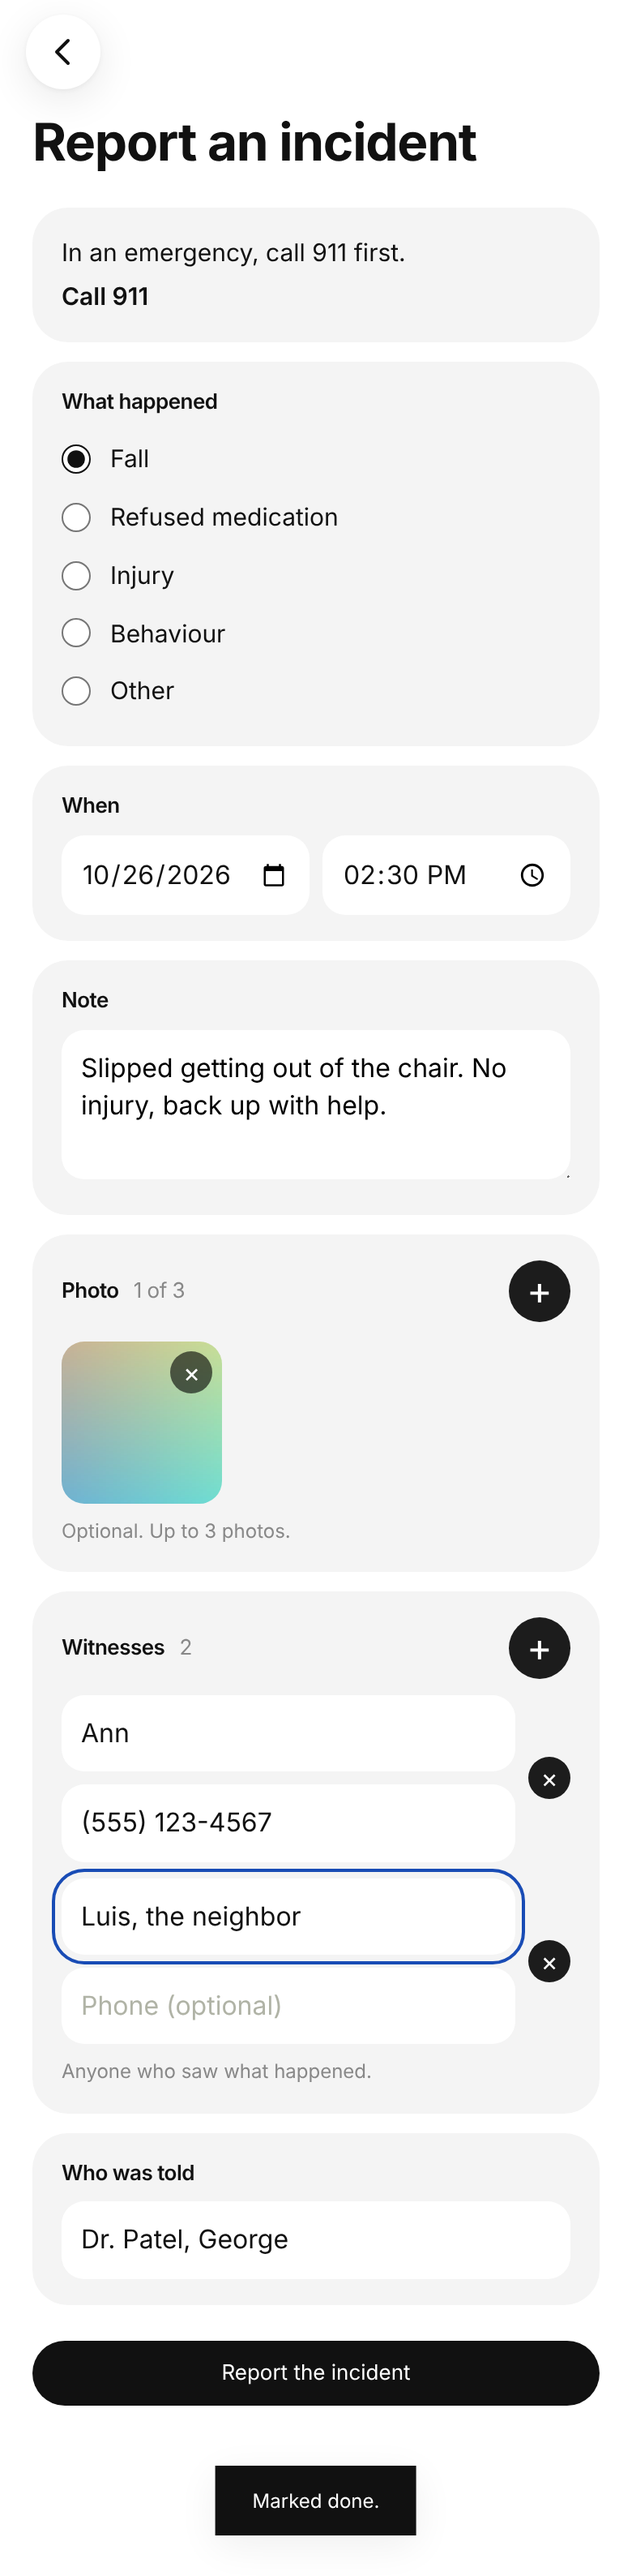
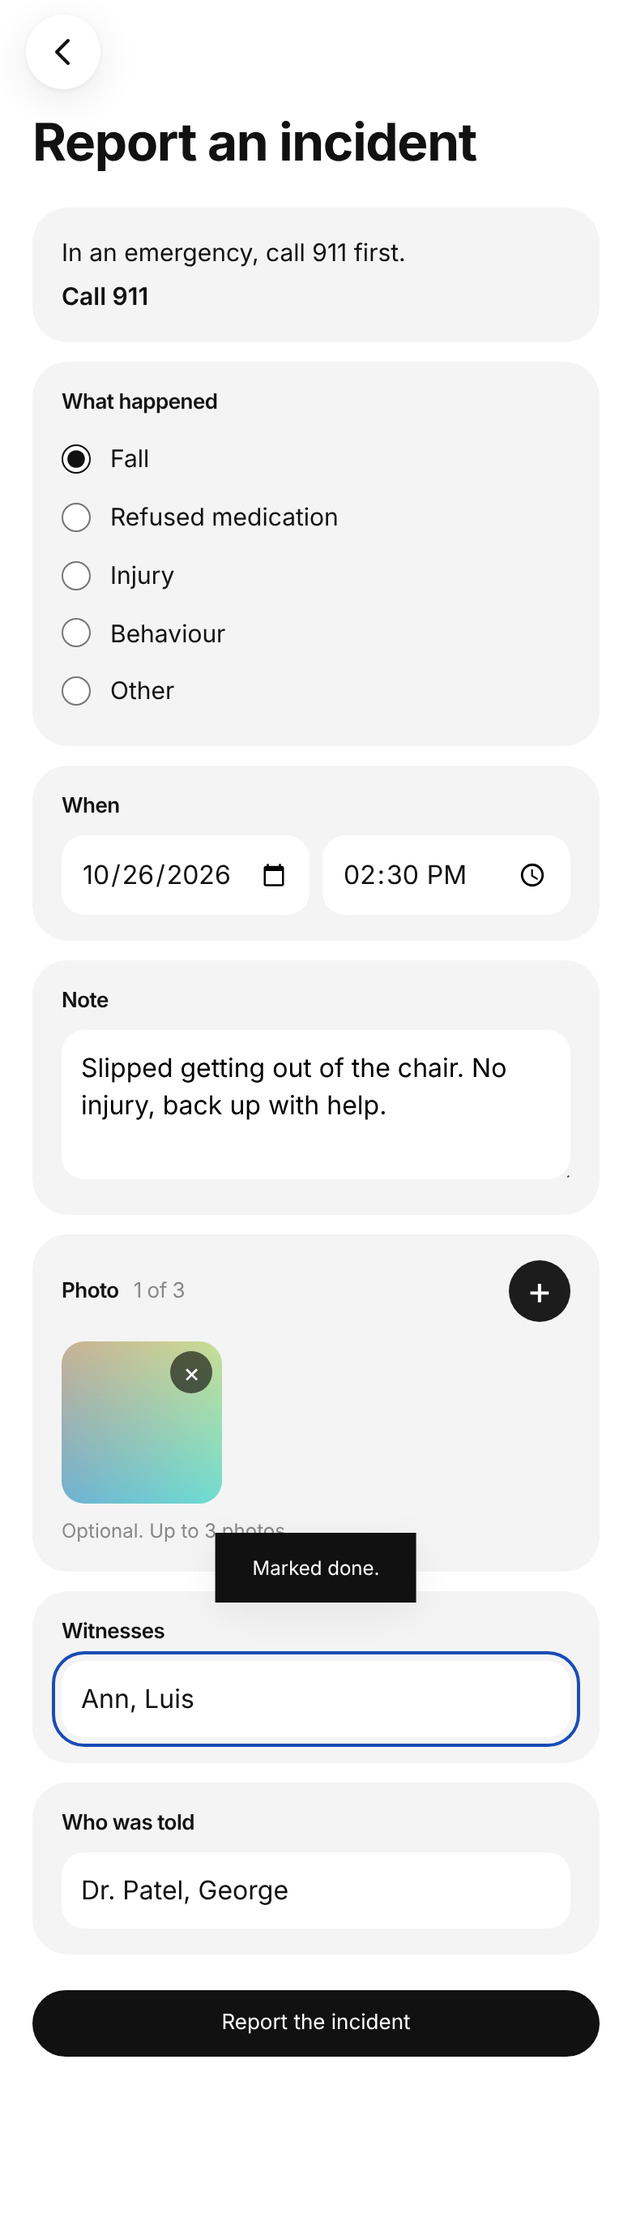
Step 5: witnesses as one field, names separated by commas
George asked for a single Witnesses field with no phone numbers.

Claude-Session: https://claude.ai/code/session_01E2FP2TgKsd54SUu6FZRJ73

diff --git a/plus.js b/plus.js
@@ -3,7 +3,7 @@
    allowed to add tasks or report incidents see it; the server checks it too (server/permissions.js).
    A new task: what to do, an optional note and photo, the date and exact time, once or repeating (every day, chosen days or
    every week), from today up to one year ahead. It shows in My Tasks on its days at its time and is done on the Take page with
-   the same Done or Skip, note and photos. An incident: what happened, when, a note, photos, witnesses and who was told, with Call 911 on
+   the same Done or Skip, note and photos. An incident: what happened, when, a note, photos, the witnesses and who was told, with Call 911 on
    the form. Both show in the daily care report, numbered and time-stamped, with who added them. Uses the Take card's blocks. */
 const PLUS_PHOTOS=3,YEAR_AHEAD=365;
 const TASK_DAYS=['Sun','Mon','Tue','Wed','Thu','Fri','Sat'];
@@ -50,7 +50,7 @@ reportEntries=function(list=items,day=today(),vitalsLog){const out=reportEntries
 for(const t of list.filter(i=>i.task)){const by=t.by?['Added by '+t.by]:[];
 if(onDay(t.addedAt,day))out.push({title:'New task: '+t.name,at:t.addedAt,note:t.note||'',details:[repeatText(t),...by],name:t.name,photos:t.photos||[]});
 for(const m of (t.marks||[]).filter(m=>m.key==='task'&&m.day===day&&m.at))out.push({title:`${t.name} (${t.time?shortClock(t.time)+' task':'task'})${m.kind==='skipped'?' skipped':''}`,at:m.at,note:m.note||'',details:by,name:t.name,photos:m.photos||[]})}
-for(const i of list.filter(i=>i.incident&&onDay(i.at,day)))out.push({title:'Incident: '+i.name,at:i.at,note:i.note||'',details:[(i.witnesses||[]).length?'Witnesses: '+i.witnesses.map(w=>w.name+(w.phone?' '+w.phone:'')).join(', '):'',i.told?'Told: '+i.told:'',i.by?'Reported by '+i.by:''].filter(Boolean),name:'Incident: '+i.name,photos:i.photos||[]});
+for(const i of list.filter(i=>i.incident&&onDay(i.at,day)))out.push({title:'Incident: '+i.name,at:i.at,note:i.note||'',details:[i.witnesses?'Witnesses: '+i.witnesses:'',i.told?'Told: '+i.told:'',i.by?'Reported by '+i.by:''].filter(Boolean),name:'Incident: '+i.name,photos:i.photos||[]});
 return out.sort((x,y)=>new Date(x.at)-new Date(y.at))};
 
 /* The + itself: the Take card's round +. Someone who may do both picks one first; otherwise it opens the one they may do. */
@@ -63,7 +63,7 @@ document.addEventListener('click',e=>{if(!e.target.closest('#tasks-plus'))return
 
 let plusDraft=null;
 const blankTaskDraft=()=>({what:'',note:'',date:today(),time:'',repeat:'once',days:[],until:C.shift(today(),YEAR_AHEAD),photos:[],busy:false});
-const blankIncidentDraft=()=>({kind:'',date:today(),time:hmNow(),note:'',told:'',witnesses:[],photos:[],busy:false});
+const blankIncidentDraft=()=>({kind:'',date:today(),time:hmNow(),note:'',witnesses:'',told:'',photos:[],busy:false});
 const plusPhotos=(d,id)=>`<section class="take-block"><div class="take-line"><h2>Photo <span>${d.photos.length} of ${PLUS_PHOTOS}</span></h2>${d.photos.length>=PLUS_PHOTOS?'':`<label class="take-add" for="${id}" aria-label="Add a photo">+</label>`}</div><input type="file" id="${id}" accept="image/*" multiple hidden>${proofRow(d.photos,true)}<p class="take-muted">Optional. Up to ${PLUS_PHOTOS} photos.</p></section>`;
 const plusField=(label,html)=>`<section class="take-block"><h2>${label}</h2>${html}</section>`;
 const plusRadios=(name,list,value)=>`<div class="plus-choice">${list.map(([v,l])=>`<label><input type="radio" name="${name}" value="${v}"${v===value?' checked':''}><span>${l}</span></label>`).join('')}</div>`;
@@ -84,7 +84,7 @@ ${plusField('What happened',plusRadios('kind',INCIDENTS,d.kind))}
 ${plusField('When',`<div class="plus-when"><input name="date" type="date" max="${today()}" value="${esc(d.date)}" aria-label="Date"><input name="time" type="time" value="${esc(d.time)}" aria-label="Time"></div>`)}
 ${plusField('Note',`<textarea name="note" maxlength="1000" placeholder="What happened, and what was done">${esc(d.note)}</textarea>`)}
 ${plusPhotos(d,'plus-photo')}
-${plusWitnesses(d)}
+${plusField('Witnesses',`<input name="witnesses" maxlength="200" autocomplete="off" value="${esc(d.witnesses)}" placeholder="Ann, Luis">`)}
 ${plusField('Who was told',`<input name="told" maxlength="200" autocomplete="off" value="${esc(d.told)}" placeholder="Dr. Patel, Ann">`)}
 <button class="primary plus-save"${d.busy?' disabled':''}>Report the incident</button></form></section>`}
 Object.assign(menuPages,{plus:plusPage,'task-new':taskNewPage,'incident-new':incidentNewPage});
@@ -92,11 +92,7 @@ menuViews.push('plus','task-new','incident-new');
 const goBeforePlus=go;go=function(v){if(v==='task-new'&&(!plusDraft||!('what'in plusDraft)))plusDraft=blankTaskDraft();if(v==='incident-new'&&(!plusDraft||!('kind'in plusDraft)))plusDraft=blankIncidentDraft();if(v==='overview'||v==='plus')plusDraft=null;return goBeforePlus(v)};
 
 /* Typing keeps the draft; a new repeat choice shows its days or its last day. */
-/* Witnesses: a name and an optional phone each; the + on the line adds one, × takes it off. */
-const plusWitnesses=d=>`<section class="take-block"><div class="take-line"><h2>Witnesses <span>${d.witnesses.length||'None yet'}</span></h2><button type="button" class="take-add tasks-plus" data-witness-add aria-label="Add a witness">+</button></div>${d.witnesses.map((w,n)=>`<div class="plus-witness"><input name="witness-name" maxlength="80" autocomplete="off" value="${esc(w.name)}" placeholder="Name" aria-label="Witness ${n+1} name"><input name="witness-phone" type="tel" inputmode="tel" maxlength="30" autocomplete="off" value="${esc(w.phone)}" placeholder="Phone (optional)" aria-label="Witness ${n+1} phone"><button type="button" class="take-shot-x" data-witness-remove="${n}" aria-label="Remove witness ${n+1}">×</button></div>`).join('')}<p class="take-muted">Anyone who saw what happened.</p></section>`;
-document.addEventListener('click',e=>{const b=e.target.closest('[data-witness-add],[data-witness-remove]');if(!b||!plusDraft||!plusDraft.witnesses)return;readPlusForm(b.closest('form'));
-if(b.dataset.witnessRemove!==undefined)plusDraft.witnesses.splice(Number(b.dataset.witnessRemove),1);else{plusDraft.witnesses.push({name:'',phone:''});render();[...document.querySelectorAll('[name="witness-name"]')].pop()?.focus();return}render()});
-function readPlusForm(f){const d=plusDraft;if(d.witnesses){const names=[...f.querySelectorAll('[name="witness-name"]')],phones=[...f.querySelectorAll('[name="witness-phone"]')];d.witnesses=names.map((n,i)=>({name:n.value,phone:phones[i]?.value||''}))}for(const k of ['what','note','date','time','until','told','kind','repeat'])if(f.elements[k]){const el=f.elements[k];d[k]=el instanceof RadioNodeList?el.value:el.value}
+function readPlusForm(f){const d=plusDraft;for(const k of ['what','note','date','time','until','witnesses','told','kind','repeat'])if(f.elements[k]){const el=f.elements[k];d[k]=el instanceof RadioNodeList?el.value:el.value}
 if(f.querySelector('[name="day"]'))d.days=[...f.querySelectorAll('[name="day"]:checked')].map(c=>Number(c.value))}
 document.addEventListener('input',e=>{const f=e.target.closest('.plus-form');if(f&&plusDraft)readPlusForm(f)});
 document.addEventListener('change',async e=>{const f=e.target.closest('.plus-form');if(!f||!plusDraft)return;
@@ -116,8 +112,8 @@ const problem=task?taskProblem(d):incidentProblem(d);if(problem){toast(problem);
 d.busy=true;render();const photos=(await uploadPlus(d.photos,task?'task':'incident')).filter(Boolean),by=markedBy(),added=new Date().toISOString();
 if(task){const t={id:crypto.randomUUID(),task:true,name:d.what.trim(),...(d.note.trim()?{note:d.note.trim()}:{}),...(photos.length?{photos}:{}),date:d.date,time:d.time,repeat:d.repeat,...(d.repeat==='days'?{days:[...d.days].sort()}:{}),...(d.repeat!=='once'?{until:d.until}:{}),...(by?{by}:{}),addedAt:added,marks:[]};
   items.push(t);plusDraft=null;view='overview';tasksOpen=taskOn(t,today());save();render();window.scrollTo(0,0);toast(`Task added: ${repeatText(t)}.`);return}
-const kind=INCIDENTS.find(([k])=>k===d.kind),witnesses=d.witnesses.map(w=>({name:w.name.trim(),...(w.phone.trim()?{phone:w.phone.trim()}:{})})).filter(w=>w.name),at=new Date(d.date+'T'+d.time).toISOString();
-items.push({id:crypto.randomUUID(),incident:true,kind:kind[0],name:kind[1],at,...(d.note.trim()?{note:d.note.trim()}:{}),...(d.told.trim()?{told:d.told.trim()}:{}),...(witnesses.length?{witnesses}:{}),...(photos.length?{photos}:{}),...(by?{by}:{}),addedAt:added});
+const kind=INCIDENTS.find(([k])=>k===d.kind),at=new Date(d.date+'T'+d.time).toISOString();
+items.push({id:crypto.randomUUID(),incident:true,kind:kind[0],name:kind[1],at,...(d.note.trim()?{note:d.note.trim()}:{}),...(d.told.trim()?{told:d.told.trim()}:{}),...(d.witnesses.trim()?{witnesses:d.witnesses.split(',').map(w=>w.trim()).filter(Boolean).join(', ')}:{}),...(photos.length?{photos}:{}),...(by?{by}:{}),addedAt:added});
 plusDraft=null;reportTab=d.date===today()?'today':d.date===C.shift(today(),-1)?'previous':reportTab;view='overview';tasksOpen=false;save();render();window.scrollTo(0,0);toast('Incident reported. It’s in the daily care report.')});
 
 /* The forms aren't open to people who can't use them. */

diff --git a/home.css b/home.css
@@ -205,6 +205,3 @@ body.not-home #main>.page-heading{margin-top:0}
 .plus-until{display:flex;align-items:center;gap:12px;margin-top:10px;font-size:15px;color:#111}.plus-until span{flex:none}
 .plus-911 p+p{margin-top:4px}.plus-911 .flow-text-link{font-weight:600}
 .plus-form .plus-save{width:100%;margin-top:10px}
-.plus-witness{position:relative;display:grid;grid-template-columns:1fr 1fr;gap:8px;margin-top:10px;padding-right:34px}
-.plus-witness .take-shot-x{top:50%;right:0;transform:translateY(-50%);background:#1c1c1c}
-@media(max-width:650px){.plus-witness{grid-template-columns:1fr}}

diff --git a/docs/care-team-plan.md b/docs/care-team-plan.md
@@ -98,7 +98,7 @@ Admins can change anyone's role at any time (Settings → People → tap their n
 - Everything here belongs to the family on screen: a caregiver on several families adds a task or reports an incident for the patient they're looking at, and it shows only in that family's My Tasks and report.
 - A round + at the top right of My Tasks, with the "My Tasks" title staying top left, only for people allowed to add tasks or report incidents (moved from the far left at George's request on 2026-10-22).
 - **New task:** what to do, an optional note and photo, the date and exact time, once or repeating (daily, chosen days, weekly), from today up to one year ahead. It shows in My Tasks at its time and is done with the existing Done or Skip buttons, with notes and photos as now.
-- **Report an incident:** what happened (fall, refused medication, injury, behaviour, other), when, a note, photos, witnesses (each a name and an optional phone, added with a +), and who was told. Call 911 sits on the form.
+- **Report an incident:** what happened (fall, refused medication, injury, behaviour, other), when, a note, photos, witnesses (their names, separated by commas), and who was told. Call 911 sits on the form.
 - Both show in the daily care report, numbered and time-stamped, with who added them.
 **Done when:** an admin schedules a task for next Monday at 3:00 PM and it appears in the caregiver's My Tasks then; an incident shows in the report straight away; a caregiver on two families sees each family's tasks only under that family.
 
